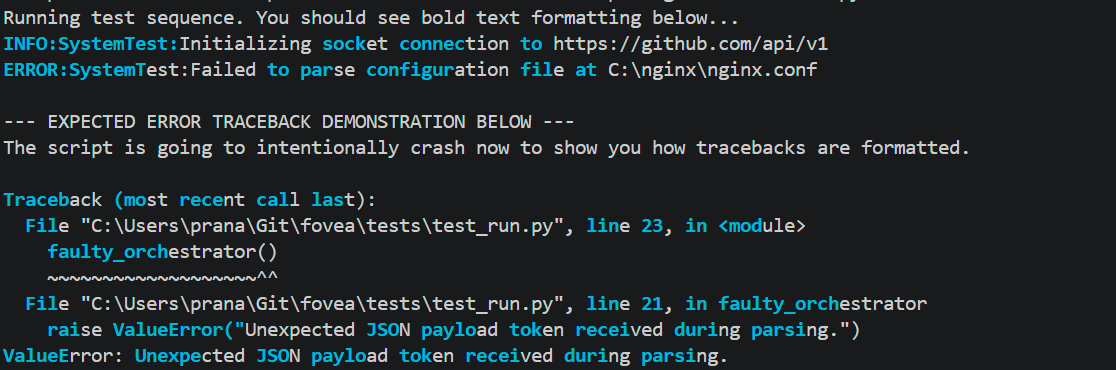
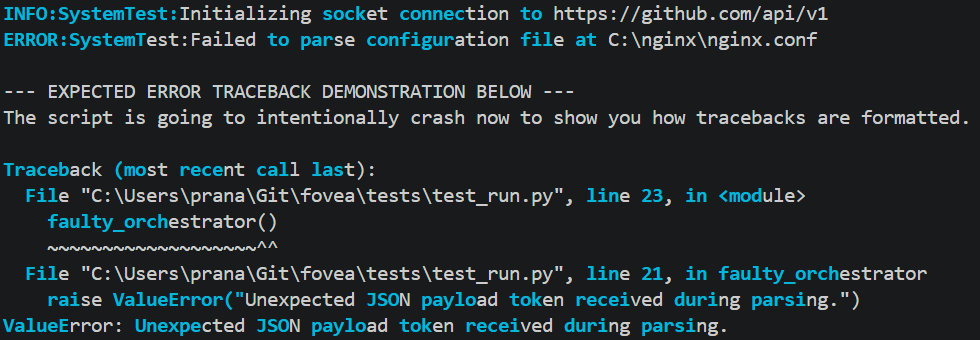
refactor: rename package and module to bionify

Changed region(s): [[0.0, 0.0, 0.9796, 0.4412], [0.0, 0.4706, 0.949, 0.9118], [0.0, 0.9412, 0.7347, 1.0]]

diff --git a/src/bionify_ext.cpp b/src/bionify_ext.cpp
@@ -16,7 +16,6 @@ std::string format_bionic_text(const std::string &input,
     const size_t n = input.size();
 
     while (i < n) {
-        // Skip existing ANSI escape codes
         if (input[i] == '\033' && i + 1 < n && input[i + 1] == '[') {
             size_t ansi_start = i;
             i += 2;
@@ -26,35 +25,30 @@ std::string format_bionic_text(const std::string &input,
             continue;
         }
 
-        // Pass through whitespace
         if (std::isspace(static_cast<unsigned char>(input[i]))) {
             output += input[i++];
             continue;
         }
 
-        // Extract the next token (word)
         size_t start = i;
         while (i < n &&
                !std::isspace(static_cast<unsigned char>(input[i])) &&
                !(input[i] == '\033' && i + 1 < n && input[i + 1] == '[')) {
             i++;
         }
+
         std::string token = input.substr(start, i - start);
 
-        // FEATURE 4: Hyperlink & Path Protection
-        // If the token looks like a URL or an absolute Windows path, skip formatting
         if (token.find("://") != std::string::npos || token.find(":\\") != std::string::npos) {
             output += token;
             continue;
         }
 
-        // Calculate word length (alphanumeric only)
         size_t word_len = 0;
         for (char c : token) {
             if (std::isalnum(static_cast<unsigned char>(c))) word_len++;
         }
 
-        // Apply Bionic Formatting
         if (word_len > 0) {
             size_t fixation_len = static_cast<size_t>(std::ceil(word_len * intensity));
             if (fixation_len == 0) fixation_len = 1;
@@ -72,9 +66,8 @@ std::string format_bionic_text(const std::string &input,
     return output;
 }
 
-NB_MODULE(fovea_ext, m) {
-    m.doc() = "High-performance C++ backend for Fovea.";
-
+NB_MODULE(bionify_ext, m) {
+    m.doc() = "High-performance C++ backend for Bionify.";
     m.def("format_bionic_text",
           &format_bionic_text,
           nb::arg("input"),

diff --git a/src/bionify/hook.py b/src/bionify/hook.py
@@ -3,18 +3,16 @@ import traceback
 import logging
 from typing import TextIO, Any
 
-from . import fovea_ext
+from . import bionify_ext
 from ._core import get_intensity, get_ansi_tags
 
 _original_excepthook = sys.excepthook
 
 def _format_text(data: str) -> str:
     prefix, suffix = get_ansi_tags()
-    return fovea_ext.format_bionic_text(data, get_intensity(), prefix, suffix)
+    return bionify_ext.format_bionic_text(data, get_intensity(), prefix, suffix)
 
-# FEATURE 2: Native Logging Formatter
 class BionicFormatter(logging.Formatter):
-    """A standard Python logging formatter that applies Fovea bionic reading."""
     def format(self, record):
         msg = super().format(record)
         return _format_text(msg)
@@ -25,18 +23,14 @@ def bionic_excepthook(exc_type, exc_value, exc_traceback):
         return
 
     tb_lines = traceback.format_exception(exc_type, exc_value, exc_traceback)
-    
     styled_traceback = ""
     for line in tb_lines:
-        # FEATURE 3: Stack Trace Noise Reduction
-        # If the error is inside a library, leave it gray and unformatted.
-        # If it is in the developer's local code, apply Fovea!
         if "site-packages" in line or "lib\\python" in line.lower() or "lib/python" in line.lower():
-            styled_traceback += line 
+            styled_traceback += line
         else:
             styled_traceback += _format_text(line)
 
-    original_stderr = getattr(sys.stderr, '_original_stream', sys.stderr)
+    original_stderr = getattr(sys.stderr, "_original_stream", sys.stderr)
     original_stderr.write(styled_traceback)
     original_stderr.flush()
 

diff --git a/src/bionify/_core.py b/src/bionify/_core.py
@@ -7,12 +7,12 @@ COLORS = {
     "red": "\033[91m",
     "green": "\033[92m",
     "blue": "\033[94m",
-    "white": "\033[97m"
+    "white": "\033[97m",
 }
 
-_intensity = float(os.getenv("FOVEA_INTENSITY", "0.5"))
-_prefix = "\033[1;96m"  # Default to Bold Cyan
-_suffix = "\033[0m"     # Default Reset
+_intensity = float(os.getenv("BIONIFY_INTENSITY", "0.5"))
+_prefix = "\033[1;96m"
+_suffix = "\033[0m"
 
 def set_prescription(intensity: float):
     global _intensity
@@ -22,7 +22,6 @@ def get_intensity() -> float:
     return _intensity
 
 def set_style(bold: bool = True, color: str = "cyan"):
-    """Easily set the aesthetic of the bionic text."""
     global _prefix, _suffix
     color_code = COLORS.get(color.lower(), "")
     bold_code = "\033[1m" if bold else ""
@@ -41,7 +40,6 @@ def set_style(bold: bool = True, color: str = "cyan"):
         _suffix = ""
 
 def set_color_ansi(prefix: str, suffix: str = "\033[0m"):
-    """Power-user API for custom ANSI codes."""
     global _prefix, _suffix
     _prefix = prefix
     _suffix = suffix

diff --git a/tests/test_run.py b/tests/test_run.py
@@ -3,6 +3,7 @@ import logging
 import fovea
 
 fovea.set_prescription(0.6)
+fovea.set_style(bold=True, color="magenta")
 
 print("Running test sequence. You should see bold text formatting below...")
 

diff --git a/README.md b/README.md
@@ -1,20 +1,20 @@
-<p align="center">
-  <img src="assets/logo.png" alt="Fovea Logo" width="180"/>
-</p>
+<div align="center">
 
-<h1 align="center">Fovea</h1>
+  <img src="assets/bionify_logo.png" alt="Bionify Logo" width="180"/>
 
-[![PyPI version](https://img.shields.io/pypi/v/fovea.svg)](https://pypi.org/project/fovea/)
-[![Python versions](https://img.shields.io/pypi/pyversions/fovea.svg)](https://pypi.org/project/fovea/)
-[![License: MIT](https://img.shields.io/badge/License-MIT-yellow.svg)](https://opensource.org/licenses/MIT)
+  [![PyPI version](https://img.shields.io/pypi/v/bionify.svg)](https://pypi.org/project/bionify/)
+  [![Python versions](https://img.shields.io/pypi/pyversions/bionify.svg)](https://pypi.org/project/bionify/)
+  [![License: MIT](https://img.shields.io/badge/License-MIT-yellow.svg)](https://opensource.org/licenses/MIT)
 
-**Fovea** is a lightning-fast, C++ powered terminal formatter that applies Bionic Reading algorithms to your Python tracebacks and logs.
+  **Bionify** is a lightning-fast, C++ powered terminal formatter that applies Bionic Reading algorithms to your Python tracebacks and logs.
 
-By strategically bolding the first half of words, Fovea guides your eyes through massive walls of terminal text, allowing you to parse crash logs, errors, and system outputs in a fraction of the time.
+  By strategically bolding the first half of words, Bionify guides your eyes through massive walls of terminal text, allowing you to parse crash logs, errors, and system outputs in a fraction of the time.
 
-<p align="center">
-  <img src="assets/demo.png" alt="Fovea Terminal Output Demo" width="800"/>
-</p>
+  <p align="center">
+    <img src="assets/demo.png" alt="Bionify Terminal Output Demo" width="800"/>
+  </p>
+
+</div>
 
 ## Features
 
@@ -29,7 +29,7 @@ By strategically bolding the first half of words, Fovea guides your eyes through
 Currently available for Windows (64-bit).
 
 ```bash
-pip install fovea
+pip install bionify
 ```
 
 ## Quick Start
@@ -37,7 +37,7 @@ pip install fovea
 The easiest way to use Fovea is to simply import it at the top of your entry-point file. It will automatically hook into `sys.excepthook` and `sys.stderr`.
 
 ```python
-import fovea
+import bionify
 
 # Fovea is now active! Any unhandled exceptions will be styled.
 raise RuntimeError("This traceback will be styled for rapid reading!")
@@ -50,25 +50,25 @@ raise RuntimeError("This traceback will be styled for rapid reading!")
 Fovea defaults to Bold Cyan with a 50% reading intensity. You can easily adjust this to match your terminal theme:
 
 ```python
-import fovea
+import bionify
 
 # Change the fixation intensity (0.1 to 1.0)
-fovea.set_prescription(0.6)
+bionify.set_prescription(0.6)
 
 # Change the color (cyan, magenta, yellow, red, green, blue, white)
-fovea.set_style(bold=True, color="magenta")
+bionify.set_style(bold=True, color="magenta")
 
 # Power user? Pass your own raw ANSI escape sequences
-fovea.set_color_ansi(prefix="\033[1;95m", suffix="\033[0m")
+bionify.set_color_ansi(prefix="\033[1;95m", suffix="\033[0m")
 ```
 
 ### Using with the logging Library
 
-If you want to apply Fovea to your standard Python logs, use the provided `BionicFormatter`:
+If you want to apply Bionify to your standard Python logs, use the provided `BionicFormatter`:
 
 ```python
 import logging
-from fovea.hook import BionicFormatter
+from bionify.hook import BionicFormatter
 
 logger = logging.getLogger("MyBackend")
 handler = logging.StreamHandler()
@@ -83,7 +83,7 @@ logger.info("Database connection established successfully.")
 
 ## Contributing
 
-Contributions, issues, and feature requests are welcome! Feel free to check the [issues page](https://github.com/Pranay-Bhaskar/fovea/issues).
+Contributions, issues, and feature requests are welcome! Feel free to check the [issues page](https://github.com/Pranay-Bhaskar/bionify/issues).
 
 ## License
 
